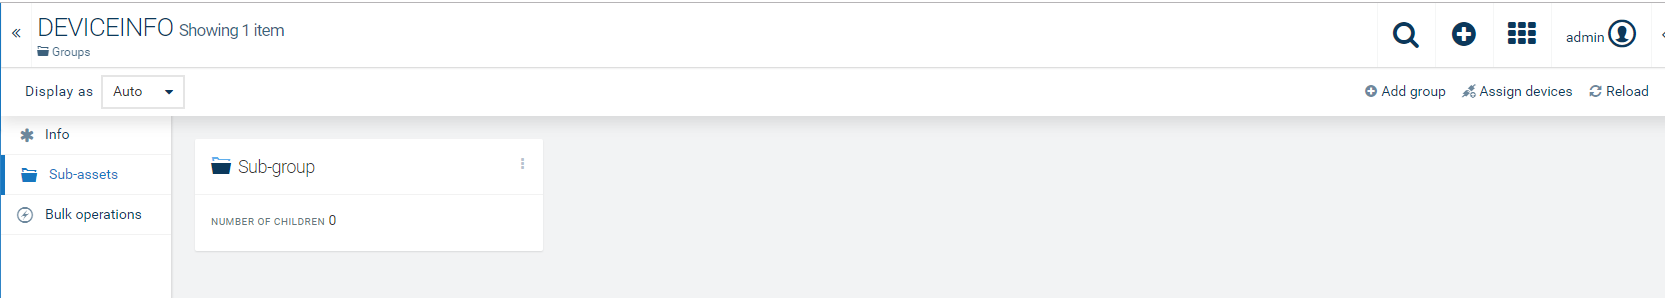
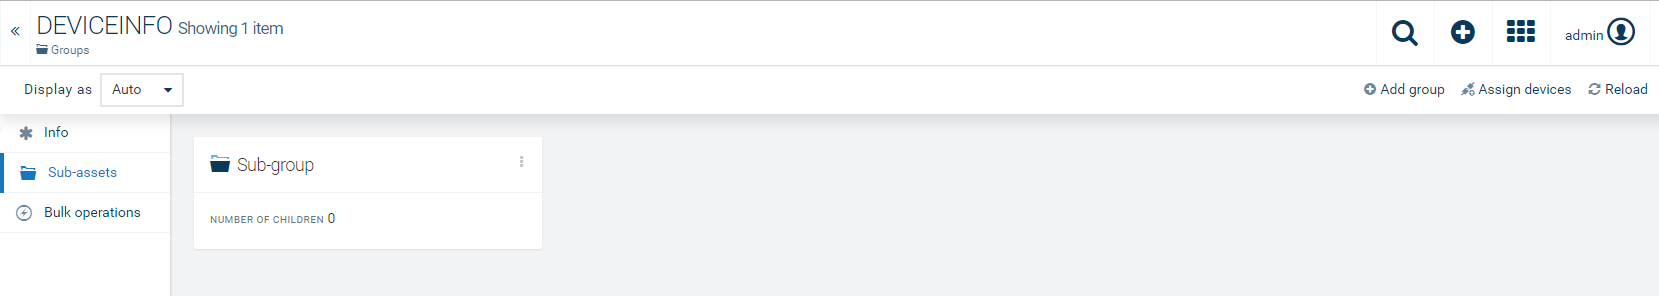
MTM-24418 Removed a redundant image and fixed 1 image.

diff --git a/src/render/guides/users-guide/device-management/grouping-devices.html.md b/src/render/guides/users-guide/device-management/grouping-devices.html.md
@@ -75,8 +75,6 @@ From the device perspective:
 2. In the **Info** tab, scroll down to the **Groups assignment** card. From the drop-down field, select the group you want to assign the device to. You can also directly enter a group name here or you can enter just parts of a name to filter the list for it and only show the matching group names.
 3. Click **Assign**.
 
-<img src="/guides/images/users-guide/DeviceManagement/DevMgmt_GroupAssignment.png" alt="Add to group">
-
 If you search for a group by its name which does not exist yet, a **New** button will appear so that you can create a new group with this name from here and assign the device to that group.
 
 In order to create a new group, the user must have the following permissions:
